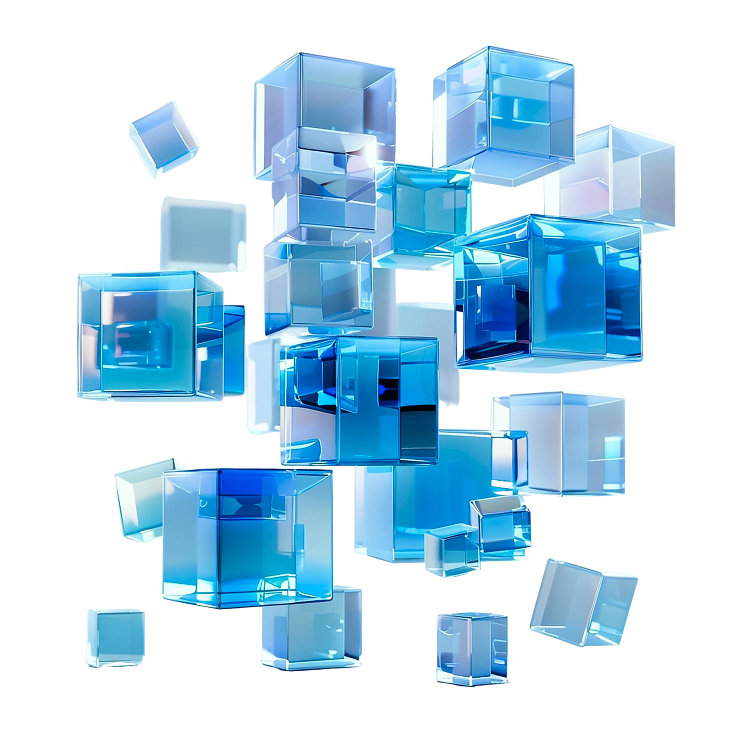
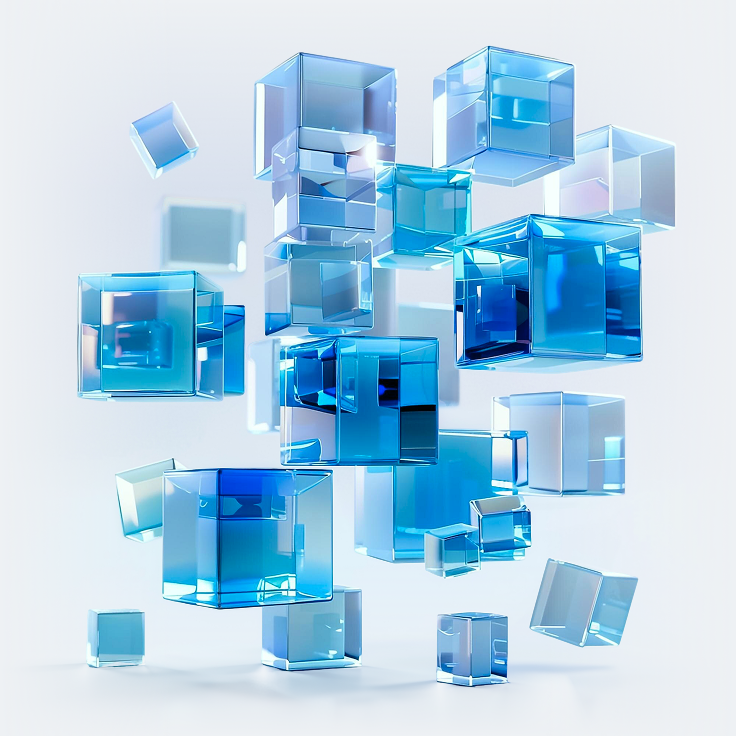
design: update Casestudiecard CTA to arrow-btn style
Replace filled circle button with bi-arrow-up-right-circle-fill icon,
transparent background, primary color, and 45deg rotate on hover —
matching the arrow-btn/icon-right-crd pattern used site-wide.

diff --git a/src/components/common/Casestudiecard.vue b/src/components/common/Casestudiecard.vue
@@ -36,11 +36,7 @@
       </div>
 
       <router-link :to="to" class="casestudie-card__cta" :aria-label="`Learn more about ${title}`">
-        <svg width="18" height="18" viewBox="0 0 24 24" fill="none" stroke="currentColor" stroke-width="2.2"
-          stroke-linecap="round" stroke-linejoin="round">
-          <line x1="7" y1="17" x2="17" y2="7"></line>
-          <polyline points="7 7 17 7 17 17"></polyline>
-        </svg>
+        <i class="bi bi-arrow-up-right-circle-fill"></i>
       </router-link>
     </div>
   </article>
@@ -204,24 +200,25 @@ defineProps({
 
 .casestudie-card__cta {
   flex-shrink: 0;
+  flex: 0 0 auto;
   display: inline-flex;
   align-items: center;
   justify-content: center;
-  width: 38px;
-  height: 38px;
-  border-radius: 50%;
   border: none;
-  background: var(--bs-primary);
-  color: var(--bs-white);
+  background: transparent;
+  color: var(--bs-primary);
+  font-size: 35px;
+  line-height: 1;
   cursor: pointer;
-  transition: var(--bs-transition, all 0.3s ease-in-out);
+  transition: var(--bs-transition);
   padding: 0;
   align-self: flex-end;
+  text-decoration: none;
 }
 
 .casestudie-card__cta:hover {
-  background: var(--bs-secondary);
-  transform: scale(1.08);
+  transform: rotate(45deg);
+  color: var(--bs-primary);
 }
 
 .btm_wrp_con {